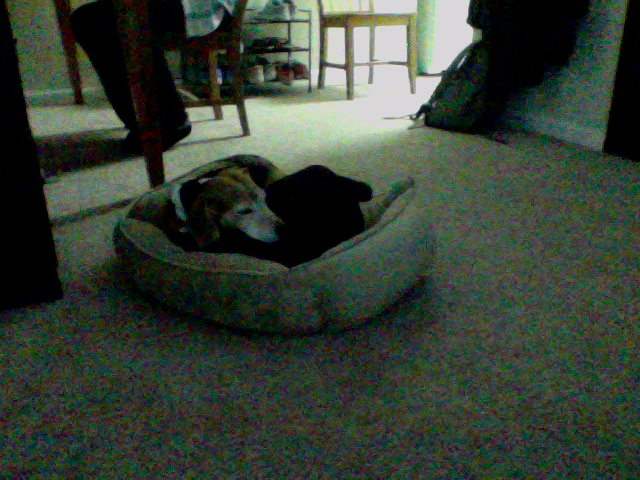
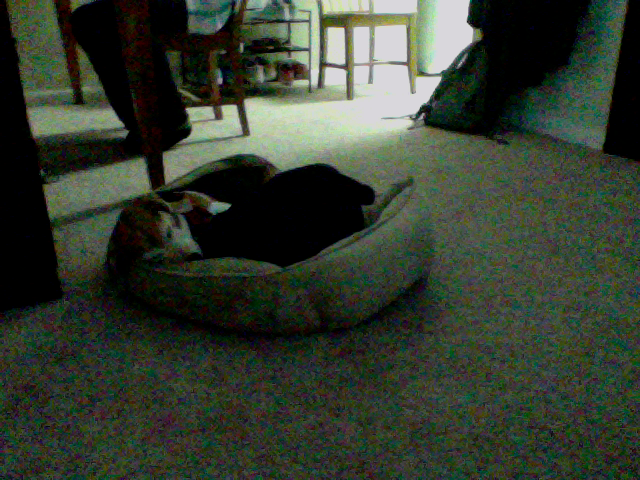
update at Month05Day09Time08:04

diff --git a/index.html b/index.html
@@ -39,8 +39,8 @@
       <!-- Example row of columns -->
       <div class="row">
         <div class="col-md-4">
-	<p>This picture was updated at Month05Day09Time08:03</p>
-		<img src="4_pic.png" />
+	<p>This picture was updated at Month05Day09Time08:04</p>
+		<img src="5_pic.png" />
         </div>
       </div>
 
